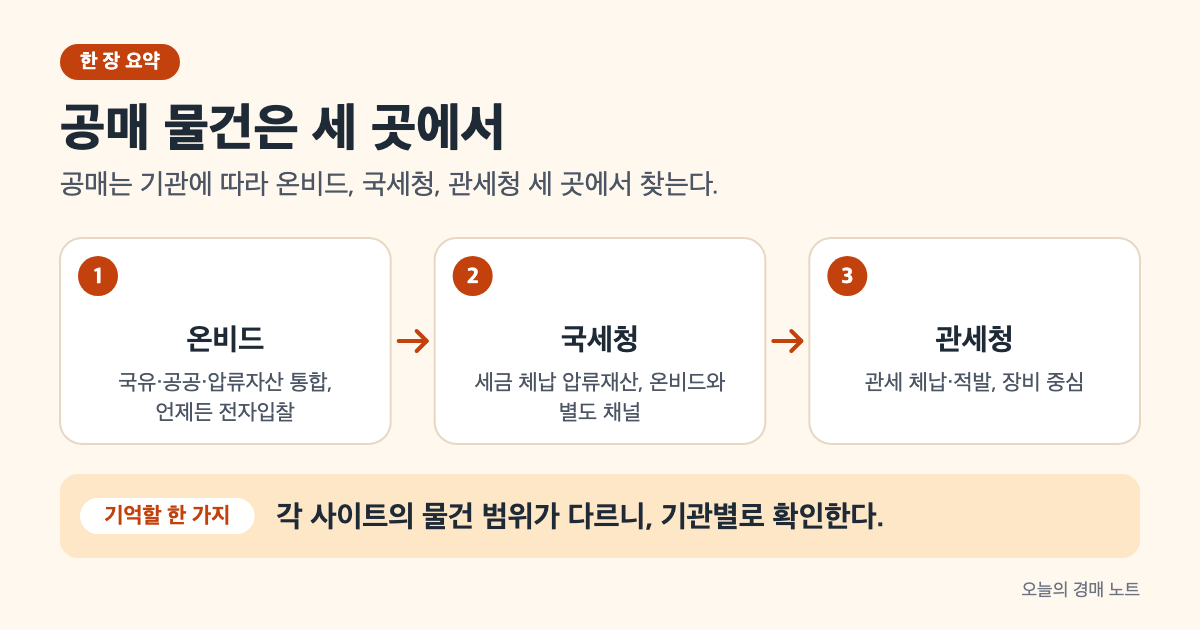
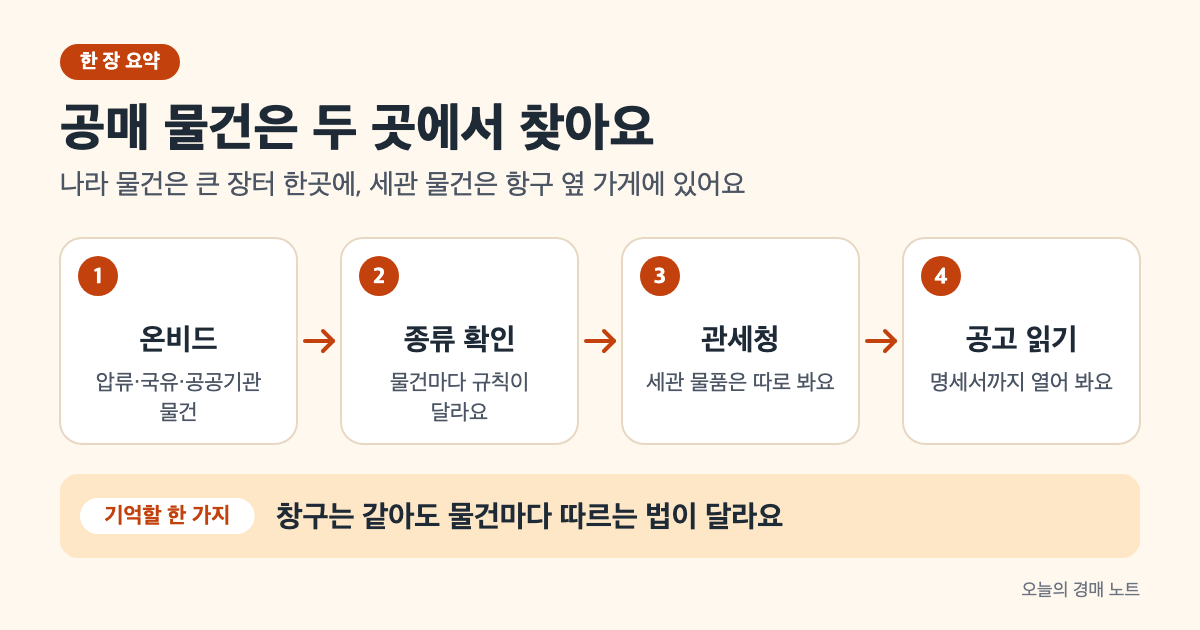
가이드 정리: 공매 사이트 — 법령·기관 원문으로 재작성, 확인 안 된 서술 삭제

diff --git a/content/guide/public-sale-sites/index.md b/content/guide/public-sale-sites/index.md
@@ -2,99 +2,87 @@
 title: "공매 물건은 어디서 찾나, 사이트별 비교"
 author: "rich-batch"
 date: 2026-09-19
-lastmod: 2026-09-19
+lastmod: 2026-10-11
 draft: true
 volatile: false
 categories: ["공매"]
-tags: ["공매", "물건", "온비드", "국세청", "관세청", "공매-조회"]
-description: "공매 물건 조회는 온비드, 국세청, 관세청 등 여러 사이트에서 가능합니다. 각 사이트의 물건 특징, 입찰 방법, 수수료를 비교해 어디서 찾을지 판단하세요."
+tags: ["공매", "온비드", "압류재산", "국유재산", "관세청 공매", "유니패스"]
+description: "공매 물건은 대부분 온비드에 모이고, 세관이 파는 장치기간 경과물품은 관세청 공매공고와 유니패스에서 따로 봅니다. 물건 종류마다 적용되는 법과 보증금·저감 규칙이 어떻게 다른지 법령 기준으로 비교합니다."
 cover:
   image: "eli5-overview.png"
-  alt: "공매 물건 사이트 온비드, 국세청, 관세청 세 가지 경로를 보여주는 도식"
-  caption: "공매 물건은 기관에 따라 온비드, 국세청, 관세청 사이트에서 각각 조회합니다."
+  alt: "온비드의 압류재산·국유재산·공공기관 물건과 관세청 공매를 나눠 보여 주고, 찾은 뒤 공고와 명세서를 읽는 흐름도"
+  caption: "공매는 대부분 온비드에서, 세관 물품만 관세청에서 따로 찾습니다"
 showToc: true
 TocOpen: true
 ---
 
-공매 물건을 사려고 마음먹었을 때, 가장 먼저 막히는 게 "어디서 찾지?"입니다. 공매는 정부와 공공기관이 파는 물건이라 투명하긴 한데, 물건에 따라 찾아야 할 사이트가 다릅니다.
+공매 물건은 대부분 한국자산관리공사(캠코)가 운영하는 [온비드](https://www.onbid.co.kr/)에서 찾습니다. 온비드는 국가가 지정·고시한 정보처리장치라 공공기관이 입찰로 재산을 처분할 때 이곳을 쓰게 되어 있고, 캠코가 관리하는 국유·압류·수탁재산부터 지방자치단체와 공공기관 자산까지 한곳에 올라와요([한국자산관리공사](https://www.kamco.or.kr/portal/contents.do?mId=0405000000)).
 
-온비드(온라인 공공자산 처분 플랫폼)는 국내 최대 공매 포털이지만, 국세청과 관세청은 별도 채널도 운영합니다. 사이트마다 다루는 물건 종류와 입찰 절차가 다르므로, 먼저 어디서 찾을지 판단해야 무탈하게 진행할 수 있습니다. 이 글의 정보는 2026년 9월 19일 기준 공식 자료로 확인했습니다.
+예외가 하나 있습니다. 세관이 보세구역의 장치기간이 지난 외국물품 등을 파는 공매는 관세법 절차라 [관세청 공매공고](https://www.customs.go.kr/kcs/ad/go/gongMeList.do?tcd=1&mi=2898)와 유니패스에서 따로 봐야 해요. 이 글은 2026년 10월 11일 기준 법령과 각 기관 공식 페이지로 어디서 무엇을 찾는지, 물건 종류마다 규칙이 어떻게 다른지 정리했습니다.
 
 > **핵심 요약**
-> - 온비드는 국유재산·공공기관 물건부터 국세청 체납자산, 관세청 압류물건까지 통합 관리
-> - 국세청과 관세청은 온비드와 별도 채널도 운영
-> - 입찰 절차와 수수료는 기관마다 다르므로, 찾고자 하는 물건이 어느 기관 것인지 먼저 확인해야 함
+> - 세금 체납 압류재산, 국유 일반재산, 공공기관 자산은 온비드에서 찾습니다.
+> - 세관의 장치기간 경과물품·체화물품은 관세청 공매공고와 유니패스에서 따로 찾고, 법도 다릅니다([관세법 제208조](https://www.law.go.kr/법령/관세법/제208조)).
 
-## 온비드: 국내 최대 공매 통합 플랫폼
+## 대부분은 온비드에 모인다
 
-온비드는 한국자산관리공사(캠코)가 운영하는 국내 최대 공매 포털입니다. 국유재산, 지자체 재산, 공공기관 물건부터 국세청·관세청 압류자산까지 거의 모든 공매물건이 여기 모입니다. 부동산, 자동차, 기계, 유가증권, 물품까지 다루는 범위가 넓어서 "무엇이든 한 곳에서"라고 봐도 됩니다.
+온비드에 공매가 모이는 데는 법적 이유가 있습니다. 국유 일반재산을 경쟁입찰로 팔 때는 총괄청이 지정·고시한 정보처리장치로 입찰공고·개찰·낙찰선언을 해야 하고([국유재산법 제43조·제31조](https://www.law.go.kr/법령/국유재산법/제31조)), 캠코는 온비드가 바로 그 정보처리장치라고 밝히고 있어요([한국자산관리공사](https://www.kamco.or.kr/portal/contents.do?mId=0405000000)).
 
-온비드의 특징은 **100% 전자입찰**인 점입니다. 법원경매처럼 법정에 나갈 필요가 없으니, 집에서 스마트폰으로 언제든 입찰할 수 있죠. 웹사이트와 모바일 앱 모두 24시간 열려 있으므로 시간과 장소의 제약이 거의 없습니다. 입찰에 참가하려면 공동인증서(또는 간편인증)로 회원가입을 하고, 보증금을 입금해야 합니다. 보증금은 보통 공매예정가격의 10% 수준이에요([온비드 공식 페이지](https://www.kamco.or.kr/portal/contents.do?mId=0405000000)).
+세금 체납 압류재산도 마찬가지입니다. 세무서장은 전문지식이 필요하거나 직접 하기 적당하지 않으면 공매를 캠코에 대행시킬 수 있고([국세징수법 제103조](https://www.law.go.kr/법령/국세징수법/제103조)), 공매는 정보통신망을 이용한 경쟁입찰로도 할 수 있어요([국세징수법 제65조](https://www.law.go.kr/법령/국세징수법/제65조)). 이 블로그가 지금까지 분석한 공매 11건(자동차 10건, 아파트 1건)도 모두 온비드에 올라온 압류재산이었습니다.
 
-온비드 고객센터는 **1588-5321** (평일 09:00~18:00)이고, 챗봇 "온다비"는 24시간 상담합니다.
+## 온비드 안에서도 물건마다 규칙이 다르다
 
-## 국세청 체납자산 공매
+온비드는 창구가 하나일 뿐, 물건마다 적용되는 법이 다릅니다. 같은 화면에서 입찰해도 보증금, 잔금 기한, 명도 방법이 달라지니 물건의 종류부터 확인해야 해요.
 
-국세청이 징수한 국세를 못 낸 사람의 재산을 압류해 팔 때 진행하는 공매입니다. 기본적으로 온비드를 통해 진행되지만, 별도 채널도 있습니다.
+| 구분 | 적용 법 | 입찰자가 알아 둘 규칙 |
+|---|---|---|
+| 압류재산(세금 체납) | 국세징수법 | 공매보증은 공매예정가격의 10% 이상, 대금은 매각결정일부터 7일 이내(30일 범위 연장), 공매재산명세서 게시 |
+| 국유 일반재산 | 국유재산법 | 공고 후 일반경쟁 원칙, 지정 정보처리장치로 공고·개찰·낙찰선언 |
+| 세관 장치기간 경과물품(관세청) | 관세법 | 유찰되면 5일 이상 간격으로 재입찰, 예정가격은 매번 최초의 10% 이내로 낮출 수 있음 |
 
-국세청 공매의 물건 특징은 **세금 체납 때문에 급하게 팔리는 물건**이라는 점입니다. 가격이 낮게 형성되는 경우가 많지만, 소유 명의가 복잡하거나 담보가 많이 걸려 있을 수 있으므로 공고문을 꼼꼼히 확인해야 합니다.
+출처: [국세징수법 제71조·제77조·제84조](https://www.law.go.kr/법령/국세징수법/제71조) · [국유재산법 제31조·제43조](https://www.law.go.kr/법령/국유재산법/제43조) · [관세법 제210조](https://www.law.go.kr/법령/관세법/제210조) (2026년 10월 11일 기준)
 
-[경험 추가 필요: 국세청 공매 물건 낙찰 후 진행 과정이나 주의할 점]
+압류재산 공매의 공매보증은 "10% 이상"이라 물건마다 공고된 비율을 확인해야 하고([국세징수법 제71조](https://www.law.go.kr/법령/국세징수법/제71조)), 잔금 기한은 법원 경매보다 훨씬 짧아요([국세징수법 제84조](https://www.law.go.kr/법령/국세징수법/제84조)). 대출을 받아야 한다면 이 기한이 대출 조건을 사실상 정하니, [경락잔금대출 조건, 잔금 기한부터 따진다]({{< relref "/guide/auction-loan-requirements" >}})를 입찰 전에 같이 보세요.
 
-온비드에서 국세청 물건을 찾으려면 필터에서 "기관 = 국세청"으로 설정하면 나옵니다. 직접 국세청 홈페이지에서도 확인할 수 있지만, 온비드처럼 통합 정렬 기능이 없어 불편합니다.
+## 세관 물품은 관세청에서 따로 찾는다
 
-## 관세청 압류물건 공매
+관세청 공매는 대상부터 다릅니다. 세관장은 보세구역에 들어온 외국물품의 장치기간이 지나면 공고한 뒤 매각할 수 있고, 세관이 강제징수로 압류한 수입물품도 같은 절차를 탑니다([관세법 제208조](https://www.law.go.kr/법령/관세법/제208조)). 관세청 누리집의 공매공고 게시판에는 세관별 "장치기간 경과물품 매각 공고", "체화 공매" 같은 공고가 올라오고, 물품 조회는 그 페이지에서 연결되는 유니패스 공매물품조회에서 해요([관세청 공매공고](https://www.customs.go.kr/kcs/ad/go/gongMeList.do?tcd=1&mi=2898)).
 
-관세를 못 낸 수입업자의 물건이나 밀수품 적발 물건을 파는 것이 관세청 공매입니다. 국세청보다 규모가 작지만, 기계나 장비 같은 산업용 물건이 많이 나옵니다.
+매각 방법도 법원 경매나 압류재산 공매와 다릅니다. 일반경쟁입찰·지명경쟁입찰·수의계약·경매·위탁판매 가운데 하나로 팔고, 경쟁입찰에서 안 팔리면 5일 이상 간격을 두고 다시 입찰에 부치면서 예정가격을 매번 최초 예정가격의 10% 이내로 낮출 수 있어요. 두 번 이상 경쟁입찰에서 안 팔리면 경매나 수의계약으로 넘어갈 수 있습니다([관세법 제210조](https://www.law.go.kr/법령/관세법/제210조)). 관세청 공고에 "유찰물품 수의계약 안내"가 따로 올라오는 이유가 이 조항이에요.
 
-관세청 공매는 **관세청 공매공고 사이트**(customs.go.kr)에서 "유니패스 공매물품조회" 링크를 통해 조회합니다. 온비드와 달리 별도 시스템이기 때문에 직접 관세청 사이트를 방문해야 합니다. 입찰 절차도 온비드와 조금 다를 수 있으니 공고를 자세히 읽는 게 중요합니다.
+## 찾은 뒤에 읽을 것
 
-[경험 추가 필요: 관세청 공매에서 물건을 찾아본 경험, 입찰 후 절차]
+물건을 찾았다면 공고와 명세서부터 읽습니다. 압류재산 공매라면 공매공고에 대금납부기한, 매각결정기일, 매수인이 인수할 지상권·전세권·대항력 있는 임차권 등이 적혀야 하고([국세징수법 제72조](https://www.law.go.kr/법령/국세징수법/제72조)), 점유자와 배분요구 현황을 담은 공매재산명세서가 입찰서 제출 시작 7일 전부터 게시돼요([국세징수법 제77조](https://www.law.go.kr/법령/국세징수법/제77조)).
 
-## 각 사이트별 비교
-
-| 항목 | 온비드 | 국세청 | 관세청 |
-|---|---|---|---|
-| **운영 기관** | 한국자산관리공사 | 국세청 | 관세청 |
-| **물건 범위** | 국유·공공·압류자산 통합 | 국세 체납자산 | 관세 체납·적발 물건 |
-| **물건 유형** | 부동산, 자동차, 기계, 물품 | 부동산, 자동차 등 | 기계, 장비 중심 |
-| **조회 방식** | 웹·앱 (24시간) | 웹·앱 + 별도 채널 | 유니패스 시스템 |
-| **입찰 방식** | 전자입찰 (100%) | 전자입찰 + 현장 입찰 | [경험 추가 필요] |
-| **보증금** | 공매예정가격의 10% | 공매예정가격의 10% | [경험 추가 필요] |
-| **고객센터** | 1588-5321 | 관할 세무서 | 해당 세관 |
-
-출처: [온비드 공식 페이지](https://www.kamco.or.kr/portal/contents.do?mId=0405000000), [정부24 서비스 안내](https://www.gov.kr/portal/service/serviceInfo/PTR000050742), [관세청 공매공고](https://www.customs.go.kr/kcs/ad/go/gongMeList.do?tcd=1&mi=2898) (2026년 9월 19일 기준)
-
-## 어떤 사이트에서 찾을지 판단하기
-
-**"빨리, 많은 물건 중에서 찾고 싶다면"** → 온비드. 검색 필터가 가장 세밀하고 정보가 한 곳에 모여 있습니다.
-
-**"국세청 체납자산을 노렸다면"** → 온비드에서 기관 필터로 찾거나, 국세청 홈페이지를 병행합니다. 온비드에서 못 찾은 공고가 국세청에는 있을 수 있습니다.
-
-**"기계나 산업용 장비를 찾는다면"** → 관세청도 확인해보세요. 수입 관련 물건이 상대적으로 많이 나옵니다.
-
-한 가지 더 중요한 게 있습니다. 공매 사이트를 고른 뒤에도 법원경매와의 차이를 확인하세요. 같은 물건이라도 경매는 법정 진행, 공매는 서류만으로 끝나는 식으로 절차가 완전히 다릅니다.
+이 블로그의 [물건 분석]({{< relref "/analysis" >}}) 글은 온비드의 이 자료를 옮겨 권리 관계를 계산합니다. [서울 강동구 이편한세상고덕어반브릿지 공매]({{< relref "/analysis/onbid-202610100001" >}})처럼 명세서의 배분요구 현황 한 줄이 인수 금액을 가르는 경우도 있으니, 공고 요약만 보지 말고 명세서까지 열어 보세요. 법원 경매와 공매의 공식 사이트가 어떻게 나뉘는지는 [경매 사이트, 무료 공식 자료로 충분할까]({{< relref "/guide/auction-site-comparison" >}})에 정리했습니다.
 
 ## 자주 묻는 질문
 
-### Q. 온비드에서 모든 공매 물건을 볼 수 있나요?
-거의 그렇습니다. 국유·공공·압류재산 대부분이 온비드에 올라오지만, 관세청은 유니패스 시스템도 병행하므로 혹시 모르니 관세청도 확인해보세요.
+### Q. 떨어지면 공매보증은 돌려받나요?
 
-### Q. 온비드 회원가입할 때 서류가 필요한가요?
-조회는 비회원도 가능하지만, 입찰하려면 공동인증서로 회원가입을 해야 합니다. 별도 서류는 필요 없습니다.
+돌려받습니다. 압류재산 공매는 개찰 후 최고가 매수신청인이 아닌 다른 매수신청인에게 공매보증을 반환해요([국세징수법 제71조](https://www.law.go.kr/법령/국세징수법/제71조)). 반대로 낙찰받고 대금을 내지 않으면 매각결정이 취소될 수 있으니([국세징수법 제86조](https://www.law.go.kr/법령/국세징수법/제86조)) 자금 계획을 먼저 세워야 합니다.
 
-### Q. 보증금은 낙찰 안 되면 돌려받나요?
-네, 다 돌려받습니다. 낙찰 후 잔금을 못 내면 보증금을 압수하지만, 낙찰 안 되면 입금 계좌로 자동 환불됩니다.
+### Q. 공매가 법원 경매보다 싼가요?
 
-### Q. 온비드와 법원경매 중 어디가 더 쌀까요?
-공매가 평균적으로 더 저렴합니다만, 물건마다 다릅니다. 같은 물건을 두 사이트에서 찾아 비교하는 것이 가장 확실합니다. [경험 추가 필요: 경험 근거]
+두 제도의 낙찰가를 비교한 공식 통계는 이번에 확인하지 못했습니다. 대신 절차 차이는 분명해서, 압류재산 공매는 인도명령 제도가 없어 점유자가 버티면 명도소송부터 해야 하고 잔금 기한도 짧아요. 싸 보이는 가격에 이런 비용과 시간이 들어 있는지 따져 봐야 합니다. 기본 차이는 [경매란? 법원경매와 공매의 차이]({{< relref "/guide/what-is-auction" >}})에서 다룹니다.
 
-### Q. 공매 물건 낙찰 후 바로 내 집이 되나요?
-아닙니다. 낙찰금을 내고 계약서를 받은 뒤, 소유권 등기 이전을 해야 비로소 내 것이 됩니다. 이 기간이 경매와 공매마다 다릅니다.
+### Q. 온비드 입찰은 현장에 가야 하나요?
+
+온비드는 공매 공고와 물건 정보 조회부터 입찰·계약까지 온라인으로 처리하도록 만든 시스템입니다([한국자산관리공사](https://www.kamco.or.kr/portal/contents.do?mId=0405000000)). 관세청 공매는 세관마다 공고에 입찰 방법이 따로 적히니 해당 공고를 확인하세요.
 
 ## 참고 자료
 
-- [한국자산관리공사 · 온비드 공식 페이지](https://www.kamco.or.kr/portal/contents.do?mId=0405000000) — 온비드 서비스 안내, 확인일 2026-09-19
-- [정부24 · 온라인 공공자산 처분 플랫폼 (온비드) 민원 안내](https://www.gov.kr/portal/service/serviceInfo/PTR000050742) — 온비드 이용 방법, 확인일 2026-09-19
-- [관세청 · 공매공고](https://www.customs.go.kr/kcs/ad/go/gongMeList.do?tcd=1&mi=2898) — 관세청 공매 안내, 확인일 2026-09-19
-- [온비드 고객센터](tel:1588-5321) — 전화상담 평일 09:00~18:00, 챗봇 24시간 운영
+- [한국자산관리공사 · 온비드 소개](https://www.kamco.or.kr/portal/contents.do?mId=0405000000) — 국가 지정 정보처리장치, 국유·압류·수탁재산과 공공기관 자산 통합, 온라인 입찰 (2026-10-11 확인)
+- [온비드](https://www.onbid.co.kr/) — 공매 물건 조회·입찰 (2026-10-11 확인)
+- [관세청 · 공매공고](https://www.customs.go.kr/kcs/ad/go/gongMeList.do?tcd=1&mi=2898) — 세관별 장치기간 경과물품·체화 공매 공고, 유니패스 공매물품조회 연결 (2026-10-11 확인)
+- [국유재산법 제31조 · 사용허가의 방법](https://www.law.go.kr/법령/국유재산법/제31조) — 총괄청 지정 정보처리장치로 입찰공고·개찰·낙찰선언 (2026-10-11 확인)
+- [국유재산법 제43조 · 계약의 방법](https://www.law.go.kr/법령/국유재산법/제43조) — 일반재산 처분은 일반경쟁, 제31조제2항 준용 (2026-10-11 확인)
+- [국세징수법 제65조 · 매각 방법](https://www.law.go.kr/법령/국세징수법/제65조) — 정보통신망을 이용한 경쟁입찰 포함 (2026-10-11 확인)
+- [국세징수법 제71조 · 공매보증](https://www.law.go.kr/법령/국세징수법/제71조) — 공매예정가격의 10% 이상, 개찰 후 반환 (2026-10-11 확인)
+- [국세징수법 제72조 · 공매공고](https://www.law.go.kr/법령/국세징수법/제72조) — 공고 사항 (2026-10-11 확인)
+- [국세징수법 제77조 · 공매재산명세서](https://www.law.go.kr/법령/국세징수법/제77조) — 입찰서 제출 시작 7일 전부터 게시 (2026-10-11 확인)
+- [국세징수법 제84조 · 매각결정 및 대금납부기한](https://www.law.go.kr/법령/국세징수법/제84조) — 7일 이내, 30일 범위 연장 (2026-10-11 확인)
+- [국세징수법 제86조 · 매각결정의 취소](https://www.law.go.kr/법령/국세징수법/제86조) — 미납 시 취소 (2026-10-11 확인)
+- [국세징수법 제103조 · 공매등의 대행](https://www.law.go.kr/법령/국세징수법/제103조) — 한국자산관리공사 대행 (2026-10-11 확인)
+- [관세법 제208조 · 매각대상 및 매각절차](https://www.law.go.kr/법령/관세법/제208조) — 장치기간 경과 외국물품 매각 (2026-10-11 확인)
+- [관세법 제210조 · 매각방법](https://www.law.go.kr/법령/관세법/제210조) — 재입찰 간격·예정가격 저감·수의계약 (2026-10-11 확인)

diff --git a/pipeline/guide/research/public-sale-sites.md b/pipeline/guide/research/public-sale-sites.md
@@ -56,3 +56,33 @@
 - 온비드는 국세청, 관세청, 지자체 등 다양한 기관의 공매물건을 통합 관리
 - 경쟁 글들은 법원경매나 통합 조회 지도 중심으로, 각 기관별 특화 설명 부족
 - "공매 물건 조회 사이트"는 실제 사용자가 많이 검색하지만, 기존 글들은 사이트 비교보다 절차 설명 중심
+
+## 차별점
+
+차별점:
+- 이전 초안의 확인되지 않은 서술(국세청 별도 채널, 관세청 입찰방식·보증금 미상, 고객센터 번호, "공매가 평균적으로 더 저렴")을 걷어내고, 온비드에 공매가 모이는 법적 이유(국유재산법 제31조·제43조, 국세징수법 제65조·제103조)를 원문으로 제시
+- 온비드 안에서도 압류재산·국유재산·세관 물품마다 적용 법과 보증금·잔금·저감 규칙이 다르다는 점을 표로 비교
+- 관세청 공매(관세법 제208조·제210조)의 재입찰 간격·저감 한도·수의계약 전환을 원문으로 설명
+- 이 블로그가 실제로 분석한 온비드 압류재산 공매 11건과 고덕어반브릿지 사례로 연결
+
+## 2026-10-11 고쳐쓰기 — 공식 원문으로 전면 재작성
+
+| # | 확인한 내용 | 원문 인용 | 출처 | URL | 읽은 방법 |
+|---|---|---|---|---|---|
+| R1 | 온비드 = 국가 지정·고시 정보처리장치, 캠코 관리 국유·압류·수탁재산과 지자체·공공기관 자산, 공개경쟁입찰, 온라인 입찰·계약 | "온비드는 국가가 지정·고시한 정보처리장치입니다", "한국자산관리공사(캠코)가 관리하는 국유·압류·수탁재산부터 국가나 지방자치단체, 그리고 공공기관 등 공공부문의 자산까지" | 한국자산관리공사 | https://www.kamco.or.kr/portal/contents.do?mId=0405000000 | WebFetch |
+| R2 | 경쟁입찰 시 총괄청 지정·고시 정보처리장치로 입찰공고·개찰·낙찰선언 | "총괄청이 지정ㆍ고시하는 정보처리장치를 이용하여 입찰공고ㆍ개찰ㆍ낙찰선언을 한다" | 국유재산법 제31조 | https://www.law.go.kr/법령/국유재산법/제31조 | law.go.kr DRF API |
+| R3 | 일반재산 처분은 공고 후 일반경쟁, 제31조제2항 준용 | "공고와 절차에 관하여는 제31조제2항을 준용한다" | 국유재산법 제43조 | https://www.law.go.kr/법령/국유재산법/제43조 | law.go.kr DRF API |
+| R4 | 공매는 정보통신망을 이용한 경쟁입찰·경매 포함 | "다음 각 호의 어느 하나에 해당하는 방법(정보통신망을 이용한 것을 포함한다)으로 한다" | 국세징수법 제65조 | https://www.law.go.kr/법령/국세징수법/제65조 | law.go.kr DRF API |
+| R5 | 공매보증 공매예정가격의 10% 이상, 개찰 후 최고가 외 반환 | "공매보증금액은 공매예정가격의 100분의 10 이상으로 한다" | 국세징수법 제71조 | https://www.law.go.kr/법령/국세징수법/제71조 | law.go.kr DRF API |
+| R6 | 공매공고 사항 | (조문 본문) | 국세징수법 제72조 | https://www.law.go.kr/법령/국세징수법/제72조 | law.go.kr DRF API |
+| R7 | 공매재산명세서 입찰서 제출 시작 7일 전부터 게시 | (조문 본문) | 국세징수법 제77조 | https://www.law.go.kr/법령/국세징수법/제77조 | law.go.kr DRF API |
+| R8 | 대금납부기한 7일, 30일 범위 연장 / 미납 시 매각결정 취소 | (조문 본문) | 국세징수법 제84조·제86조 | https://www.law.go.kr/법령/국세징수법/제84조 , https://www.law.go.kr/법령/국세징수법/제86조 | law.go.kr DRF API |
+| R9 | 공매 등 한국자산관리공사 대행 | "한국자산관리공사에 공매등을 대행하게 할 수 있다" | 국세징수법 제103조 | https://www.law.go.kr/법령/국세징수법/제103조 | law.go.kr DRF API |
+| R10 | 장치기간 경과 외국물품·세관 압류 수입물품 공고 후 매각 | "보세구역에 반입한 외국물품의 장치기간이 지나면 그 사실을 공고한 후 해당 물품을 매각할 수 있다" | 관세법 제208조 | https://www.law.go.kr/법령/관세법/제208조 | law.go.kr DRF API |
+| R11 | 매각방법, 5일 이상 간격 재입찰·최초 예정가격 10% 이내 저감, 2회 이상 유찰 시 경매·수의계약 | "5일 이상의 간격을 두어 다시 입찰에 부칠 수 있으며 그 예정가격은 최초 예정가격의 100분의 10 이내의 금액을 입찰에 부칠 때마다 줄일 수 있다" | 관세법 제210조 | https://www.law.go.kr/법령/관세법/제210조 | law.go.kr DRF API |
+| R12 | 관세청 공매공고 게시판(세관별 장치기간 경과물품·체화 공매 공고), 유니패스 공매물품조회 링크 | 공고 제목 예: "2026년 제2차 체화 공매실시"(안양세관, 2026-10-02) | 관세청 | https://www.customs.go.kr/kcs/ad/go/gongMeList.do?tcd=1&mi=2898 | WebFetch |
+| 사례 | 이 블로그 분석 공매 11건(자동차 10, 아파트 1) 모두 온비드 압류재산 | data/cases/onbid-*.json | — | https://www.onbid.co.kr/ | 데이터 |
+
+### 확인하지 못한 것
+- 공매와 법원 경매 낙찰가율을 비교한 공식 통계
+- 관세청 공매의 입찰 방식·보증금 일반 규칙(세관 공고마다 다름)
